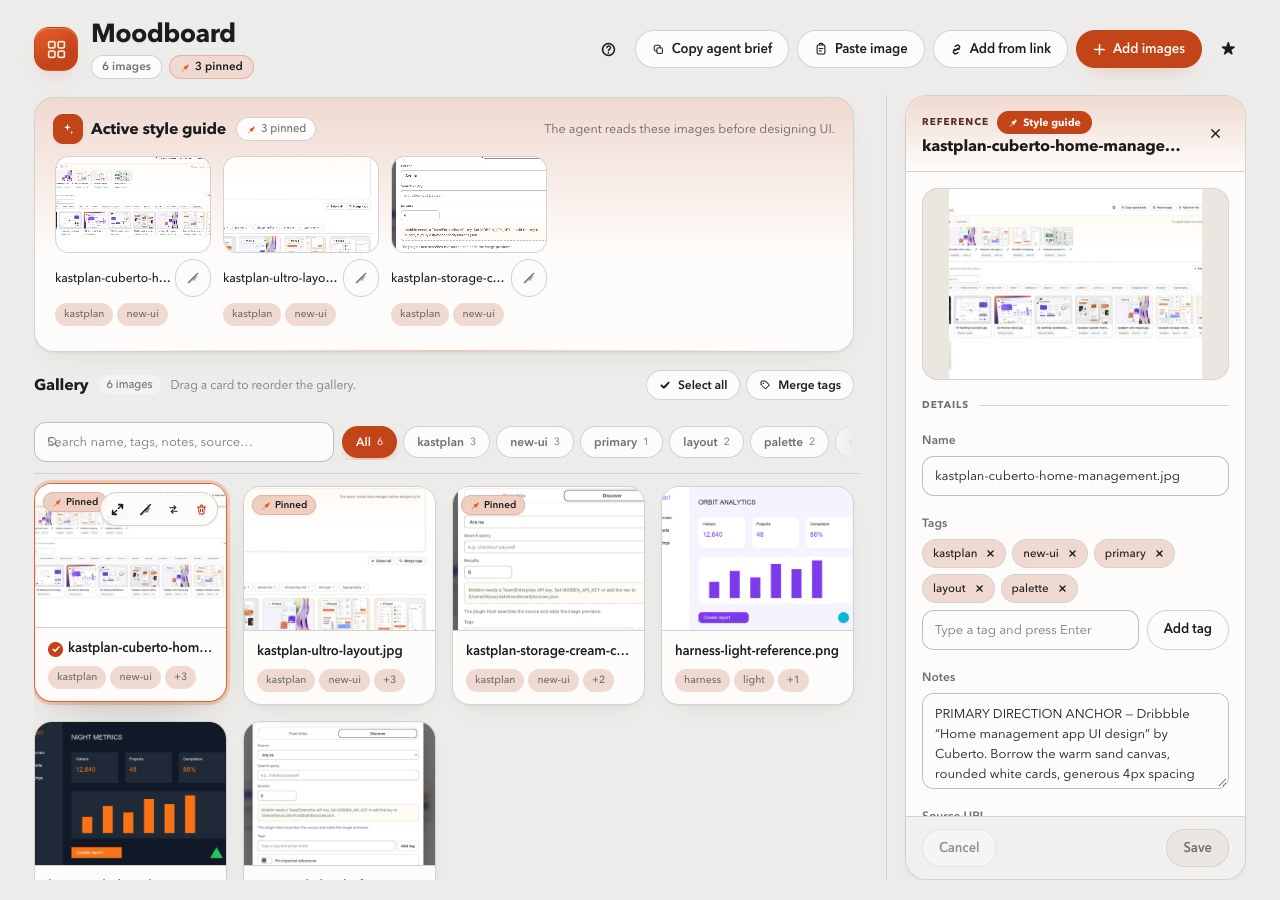
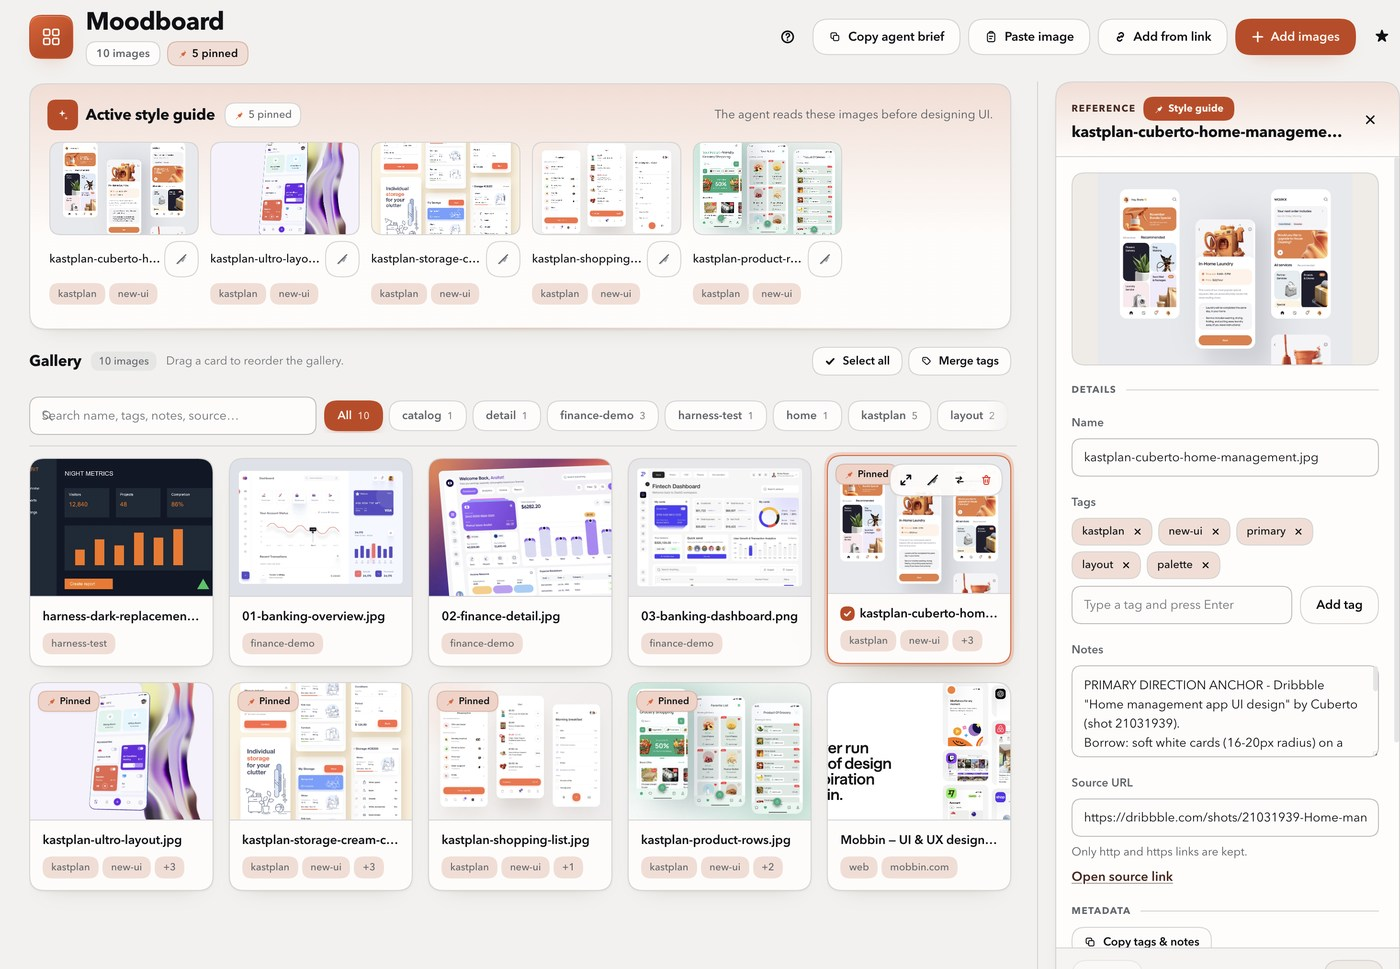
docs: capture README screenshots from the live 0.4 UI
Replace the harness-fixture screenshots with live captures of the running app's actual 10-image / 5-pinned board, covering the panel, Add references dialog and pinned-reference inspector. Add a version query to the image URLs so browsers and the GitHub raw cache pick up the new files.

Changed region(s): [[0.0, 0.0, 0.9688, 0.9956], [0.9062, 0.9022, 0.9688, 0.9644], [0.6562, 0.3422, 0.7188, 0.4356]]

diff --git a/README.md b/README.md
@@ -20,7 +20,7 @@ See [docs/UI-REDESIGN.md](https://github.com/Stijnus/dsh-moodboard/blob/main/doc
 
 ## Preview
 
-![Moodboard panel: warm sand canvas, active style guide, gallery, tag filters and reference cards](https://raw.githubusercontent.com/Stijnus/dsh-moodboard/main/docs/panel.jpg)
+![Moodboard panel: warm sand canvas, active style guide, gallery, tag filters and reference cards](https://raw.githubusercontent.com/Stijnus/dsh-moodboard/main/docs/panel.jpg?v=0.4.0)
 
 A quick tour after installation:
 
@@ -161,7 +161,7 @@ has two intakes:
   number of results — text blocks are skipped, not counted and not reported as
   failures.
 
-![Add references dialog: From links and Discover tabs, live link counter, tags and pin setting](https://raw.githubusercontent.com/Stijnus/dsh-moodboard/main/docs/import-dialog.jpg)
+![Add references dialog: From links and Discover tabs, live link counter, tags and pin setting](https://raw.githubusercontent.com/Stijnus/dsh-moodboard/main/docs/import-dialog.jpg?v=0.4.0)
 
 The dialog is the redesigned intake surface: a gradient header with a coral link
 badge, icon segmented tabs, a live `n / 20 links` counter, a proper pin setting
@@ -187,7 +187,7 @@ MCP setup, the source matrix and the designer-respect rules.
 
 Selecting a gallery card opens the reference inspector next to the gallery.
 
-![Reference inspector: Style guide pill, 16:10 preview, Details, Metadata, Style guide and Manage sections](https://raw.githubusercontent.com/Stijnus/dsh-moodboard/main/docs/inspector.jpg)
+![Reference inspector: Style guide pill, 16:10 preview, Details and Metadata sections, sticky Save footer](https://raw.githubusercontent.com/Stijnus/dsh-moodboard/main/docs/inspector.jpg?v=0.4.0)
 
 The inspector keeps the working surface close to the reference:
 
